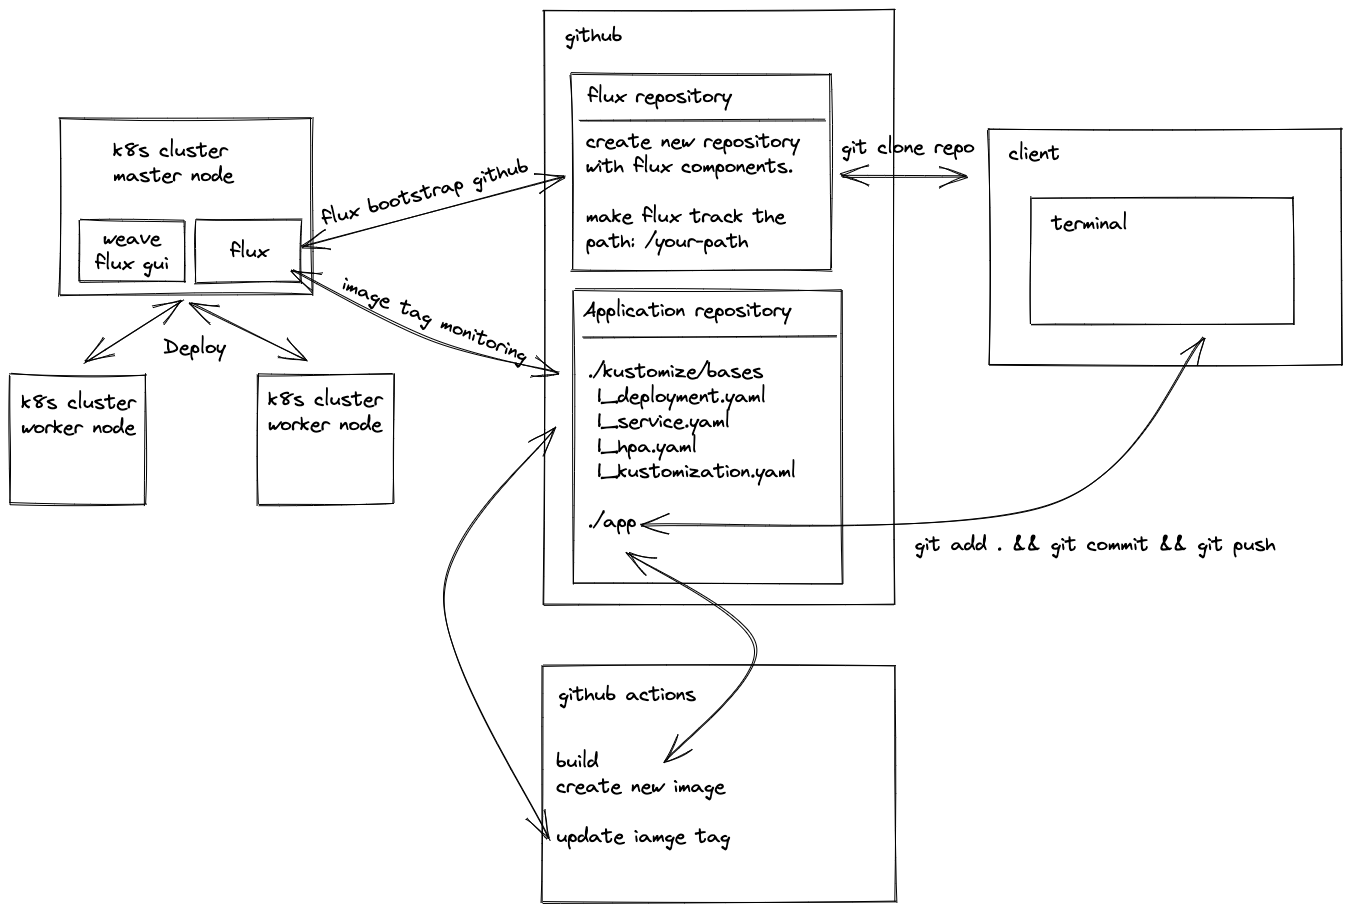
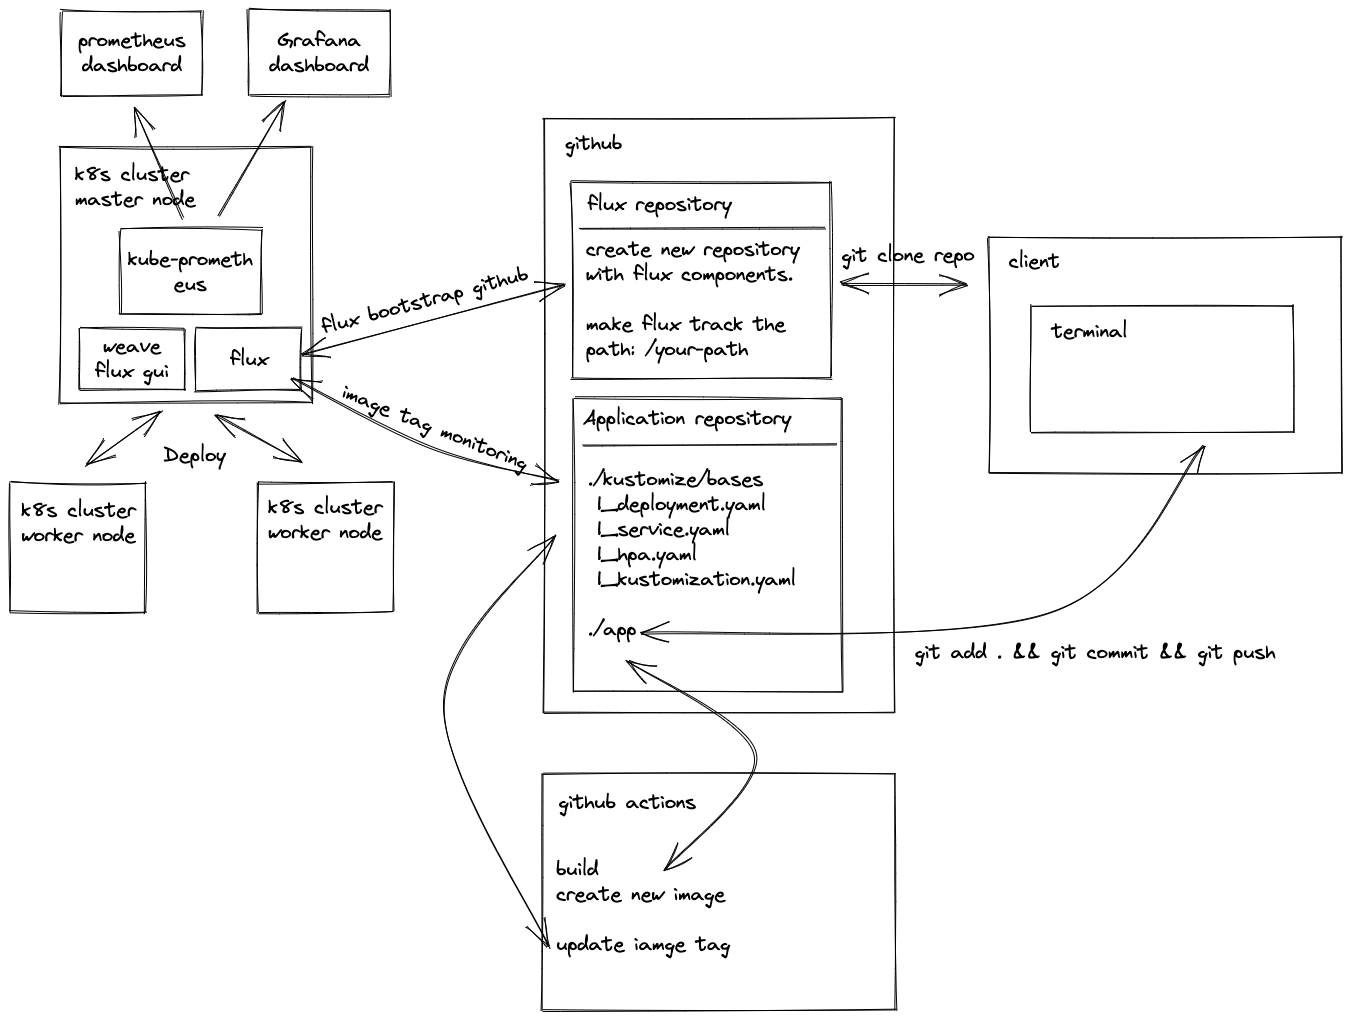
-

diff --git a/README.md b/README.md
@@ -1,9 +1,9 @@
 <!-- @format -->
 
-## Kubernetes CI&CD Pipline with GithubActions and Flux
+## Kubernetes CI&CD Pipline with GithubActions and Flux（Prometheus && Grafana）
 
 ### 目次
-
+0. 全体構成図
 1. Kubernetes クラスター構築  
    1.1 仮想マシン構築  
    1.2 Kubernetes のクラスター構築（マスターノード）  
@@ -22,6 +22,8 @@
    5.1 Kube-Prometheus 構築
    5.2 Prometheus Dashboard 確認
    5.3 Grafana Dashboard 確認
+
+### 0. 全体構成図
 
 ![image](https://github.com/ns1root/FluxApp/blob/main/image/image.png)
 
